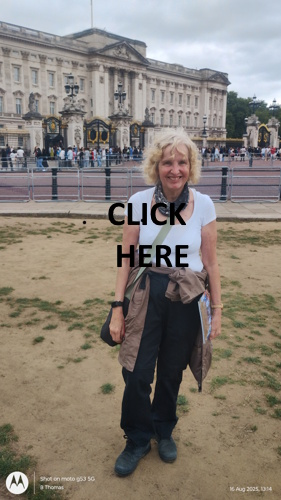
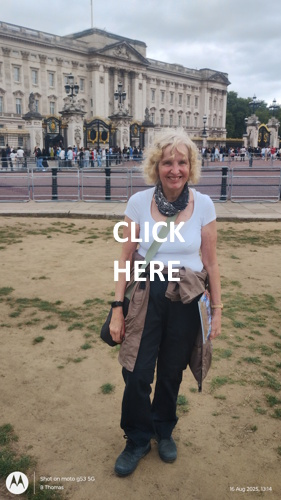
Addition 22.8.2025 blog Dinosaur rEvolution

Changed region(s): [[0.3701, 0.39, 0.6833, 0.57], [0.2847, 0.42, 0.3132, 0.45]]

diff --git a/src/components/ui/August2025.tsx b/src/components/ui/August2025.tsx
@@ -4,6 +4,7 @@ import * as React from "react"
 import Image from 'next/image'
 import blog2025 from '/public/imagesresized/blog2025.png';
 import London16082025Titled from '/public/imagesresized/London16082025Titled.jpg';
+import dinosaurrEvolutionTitled from '/public/imagesresized/dinosaurrEvolutionTitled.jpg';
 // import { Link } from "lucide-react";
 import Link from 'next/link'
 
@@ -124,16 +125,65 @@ export default function August2025() {
               >
                 <Image
                   src={ London16082025Titled }
-                  className="block ml-auto mr-auto h-auto w-[70%] sm:w-[70%] md:w-[50%] lg:w-[30%] border-solid border-[#22311d] border-4 mt-1 mb-11 rounded-[70%]"
+                  className="block ml-auto mr-auto h-auto w-[70%] md:w-[50%] lg:w-[40%] border-solid border-[#22311d] border-4 mt-1 mb-11 rounded-[70%]"
                   alt="Photo of Jill in front of Buckingham Palace"
                 />
               </Link>
             </div>{" "}
       </div>
-</div>
+      </div>
+      </div>
 
-    
-     
+      <div className="flex justify-center">
+   <div className="flex flex-col max-w-full leading-1.5 p-8 m-4 border-gray-800 border-solid border-2 bg-[#FBE9D0]">
+      <div className="flex flex-col justify-center">
+         <div className="text-lg max-w-full font-bold text-[#244845] text-center dark:text-[#244845] justify-center items-center">
+        <div className="font-bold py-2 px-12"> 22.8.2025</div>
+        <div className="font-bold"> Visit to the Dinosaur rEvolution exhibition at the Tullie Museum, Carlisle</div>
+        <div className="pr-3 pl-3 md:pr-20 md:pl-20 font-normal text-left">This exhibition by Godwana studios arrived at the Tullie at the end of June and is due to run until mid-September. We had heard good reports of it and so today we braved the school holidays to go and take a closer look ourselves before we lost out chance!
+          <br />
+          <br />
+          Until recently our knowledge of dinosaurs was based almost completely on the assumptions which were made from their internal body structure, their bones and tendon attachments. Bones, scales and armour sometimes fossilize well but soft tissues are more difficult to preserve.
+          <br />
+          <br />
+          However more recently, exceptionally well-preserved fossils from China have shown dinosaur soft tissue for the first time, including quills and feathers. These fossils were found in the Yixian Province of China where "Yixian" refers to several locations and formations in China, the most notable being Yi County in Liaoning Province, which is known for the Yixian Formation and its rich dinosaur fossils. 
+          <br />
+          <br />
+          The artist Luis Vrey has written in a <Link href="https://luisvrey.blog/2024/02/16/the-deed-is-done-dinosaur-revolution-is-a-resounding-success-at-the-horniman-museum/" target="_blank" className="underline decoration-blue-700 text-blue-700 font-bold" > blog </Link> relating to the exhibition's showing at the Horniman Museum in London (one of the other sites in the UK where it was showing), and which shows some of the fossil reprints, all about how the exhibition almost did not make it over on time to Europe from Australia and New Zealand. In case you are wondering who Luis Vrey is, Luis Vrey is described by his Wikipedia entry as being best known for his innovative work in the field of dinosaur paleoart. In conjunction with Robert T. Bakker, he promoted awareness of the developing evidence for feathered dinosaurs. Rey is apparently an active member of the Society of Vertebrate Paleontology and of the Dinosaur Society (UK).
+          <br />
+          <br />
+          Additionally, in this <Link href="https://gondwanastudios.com/dinosaur-revolution/" target="_blank" className="underline decoration-blue-700 text-blue-700 font-bold" > article </Link>, Godwana studios talks all about the dinosaur revolution exhibition itself.
+          <br />
+          <br />
+          So, is it worth a visit?  Yes, definitely! The Yixian Province fossil reproductions showing feathers and quills are amazing as are the animated feathery dinosaurs. Even Jill, who cannot be described as the greatest dinosaur enthusiast, really enjoyed it and learnt a lot. We were also very fortunate, since we got talking to one of the voluntary assistants at the museum who turned out to be a retired paleontologist who had spent his working life identifying fossil layers for oil companies so they knew where to avoid when drilling, and advising similarly when the Channel Tunnel was being built.
+          <br />
+          <br />
+          The Dinosaur rEvolution exhibition is showing at the Tullie Museum, Carlisle until the 14th September 2025.
+
+           </div>
+           </div>
+           </div>
+           <div className="flex flex-col border-solid border-4 border-[#22311d] bg-[#99b19d] pb-2 pt-2 mr-[12%] ml-[12%] mt-5 justify-center text-center">
+            <div className="mt-1 mb-1 sm:m-2 text-md font-normal block text-[#22311d] bg-[#99b19d]">
+              {" "}
+                <div className="p-1 font-bold  border-gray-800 border-solid border-2 bg-[#FBE9D0]">Click on the image below <br /> to open the album <br /> of our visit to Dinosaur rEvolution.</div>
+                <br />
+              <br />
+              <Link
+                href="https://photos.app.goo.gl/V4FwmKFinH8QFXgFA"
+                target="_blank"
+              >
+                <Image
+                  src={ dinosaurrEvolutionTitled }
+                  className="block ml-auto mr-auto h-auto w-[70%] md:w-[50%] lg:w-[50%] border-solid border-[#22311d] border-4 mt-1 mb-11 rounded-[70%]"
+                  alt="Photo of a dinosaur"
+                />
+              </Link>
+            </div>{" "}
+      </div>
+           </div>
+           
+
      </div>
      </div>
      </div>

diff --git a/src/components/ui/DesktopNavbar.tsx b/src/components/ui/DesktopNavbar.tsx
@@ -16,7 +16,7 @@ async function DesktopNavbar() {
         <Button variant="ghost" className="flex items-center gap-2" asChild>
             <Link href="/">
             <HomeIcon className="w-4 h-4" />
-            <span className="hidden lg:inline">Home</span>
+            <span className="hidden lg:inline font-bold text-lg">Home</span>
             </Link>
         </Button>
 
@@ -39,7 +39,7 @@ async function DesktopNavbar() {
                  </>
         ) : (
             <SignInButton mode="modal">
-                <Button variant="default">Sign In</Button> 
+                <Button variant="default" className="font-bold text-lg">Sign In/Register</Button> 
             </SignInButton> )}
          </div>
   );

diff --git a/src/components/ui/MobileNavbar.tsx b/src/components/ui/MobileNavbar.tsx
@@ -77,7 +77,7 @@ function MobileNavbar() {
             ) : (
               <SignInButton mode="modal">
                 <Button variant="default" className="w-full">
-                  Sign In
+                  Sign In/Register
                 </Button>
               </SignInButton>
             )}
